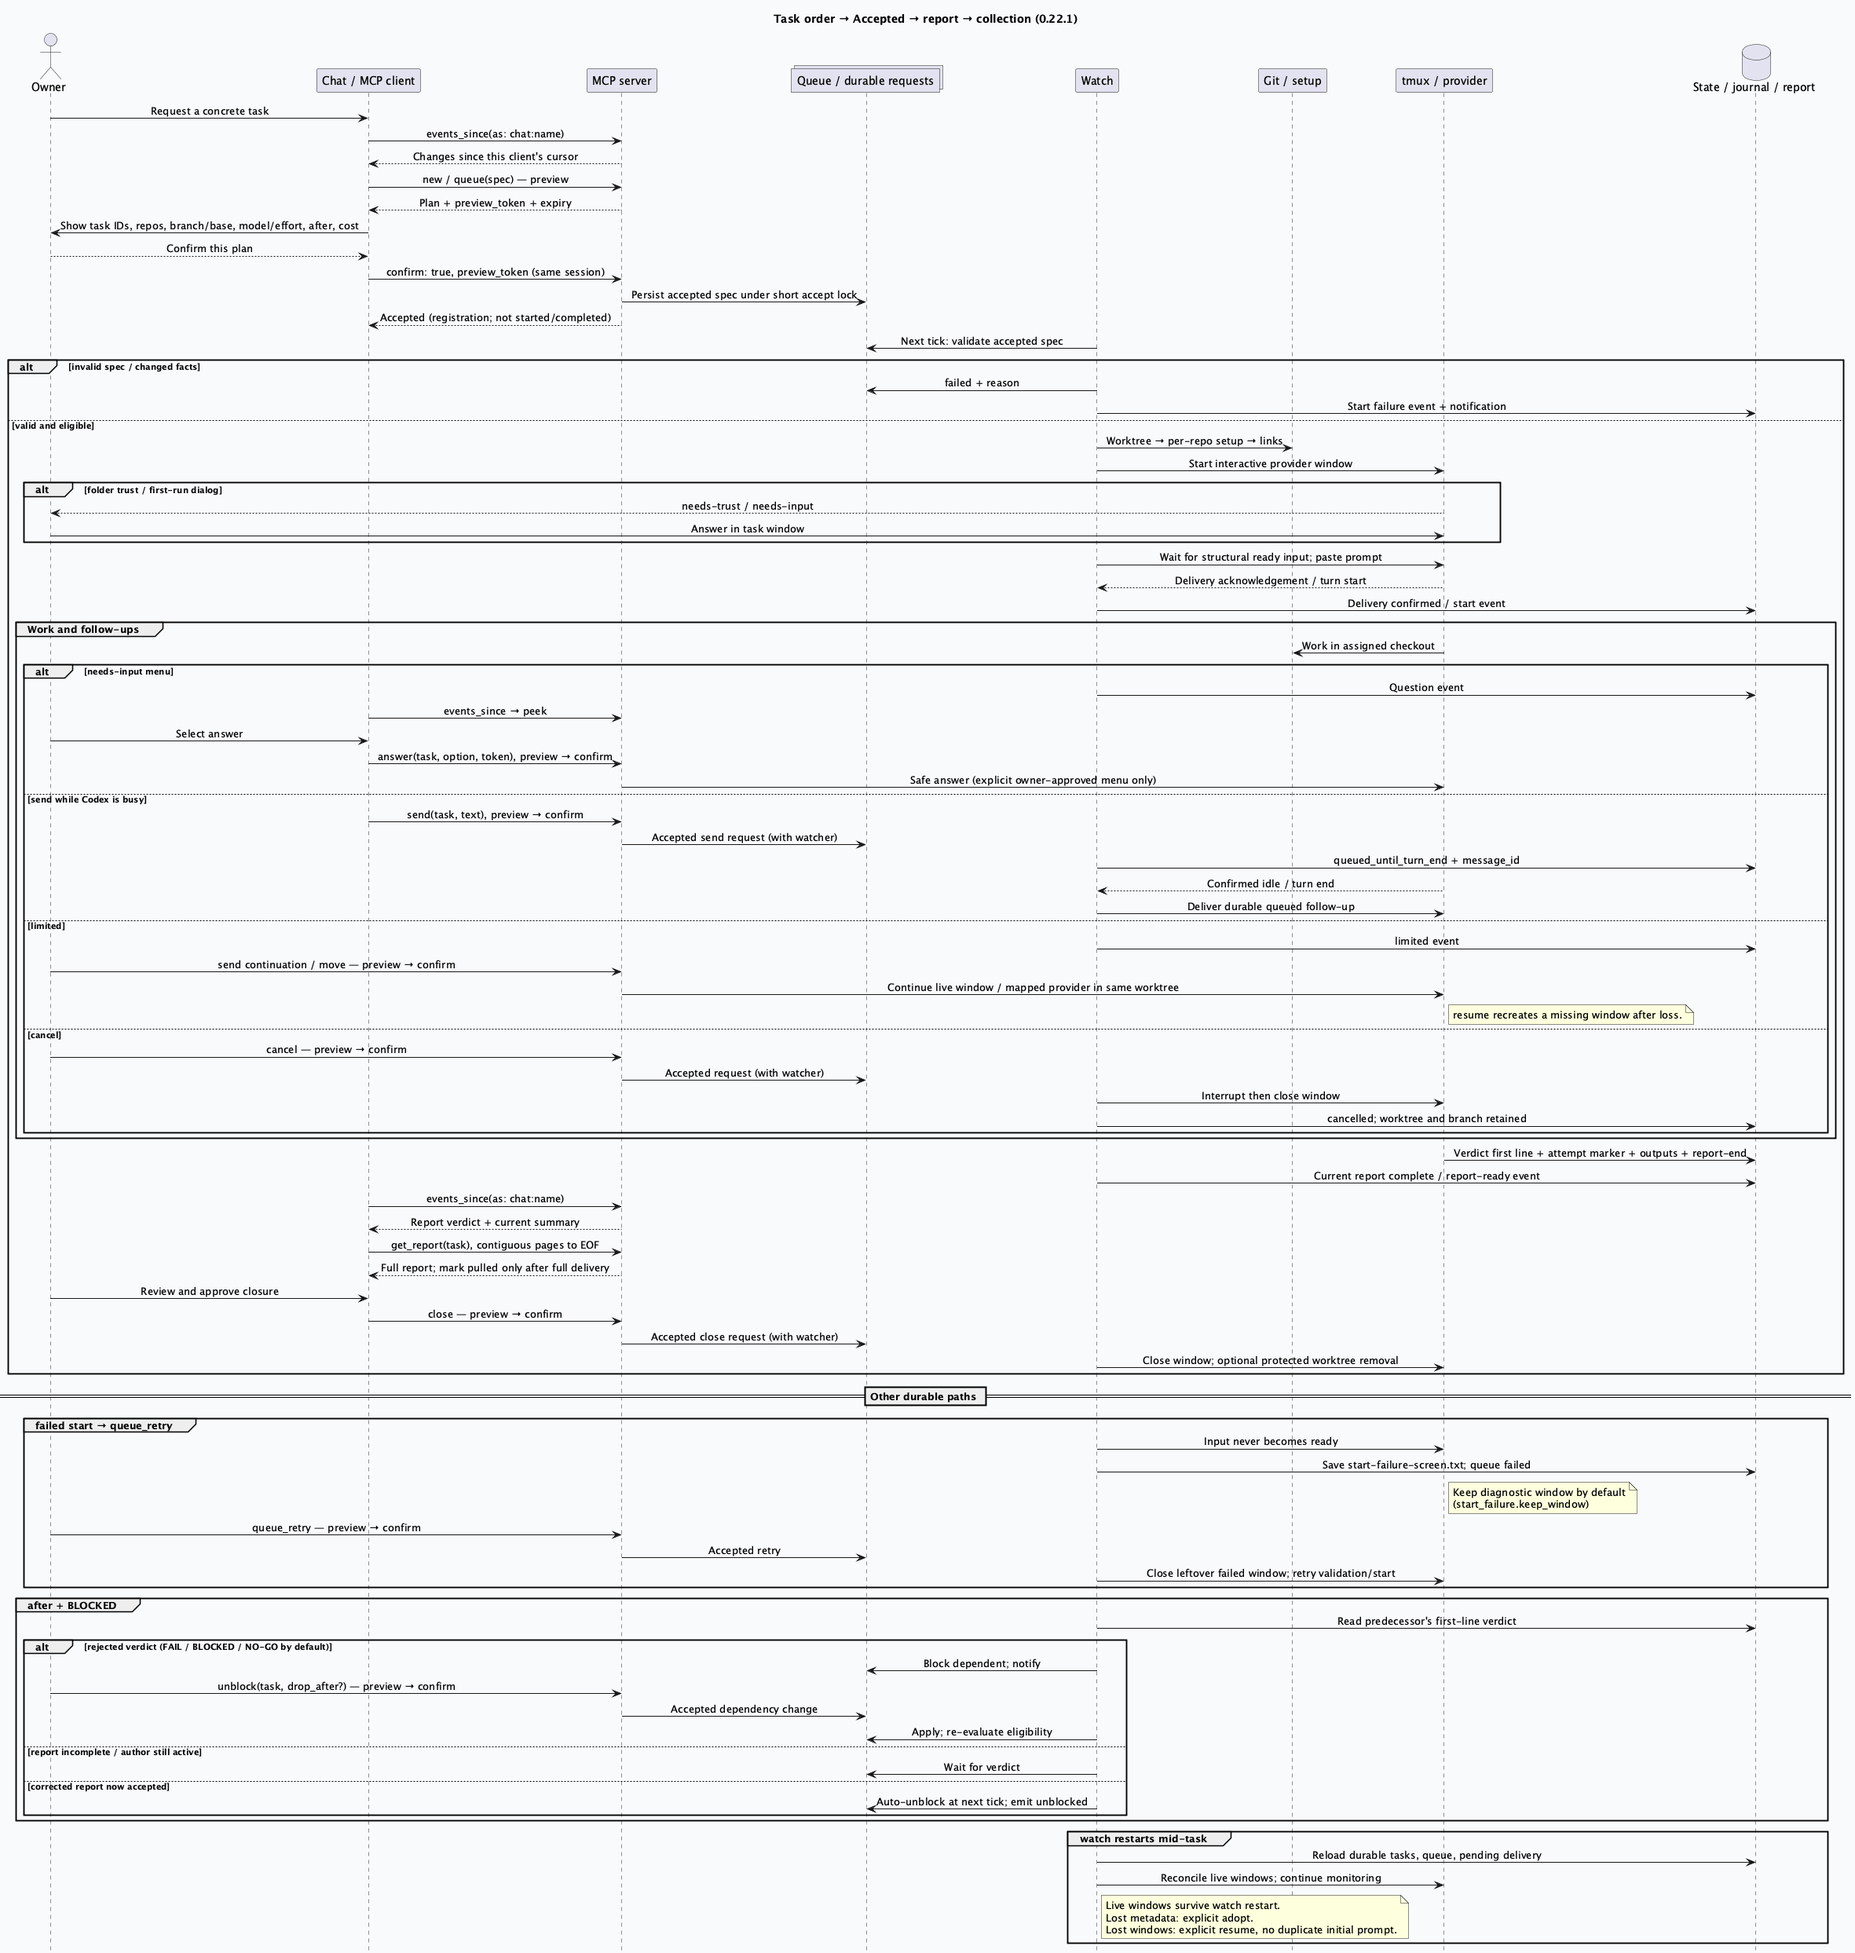
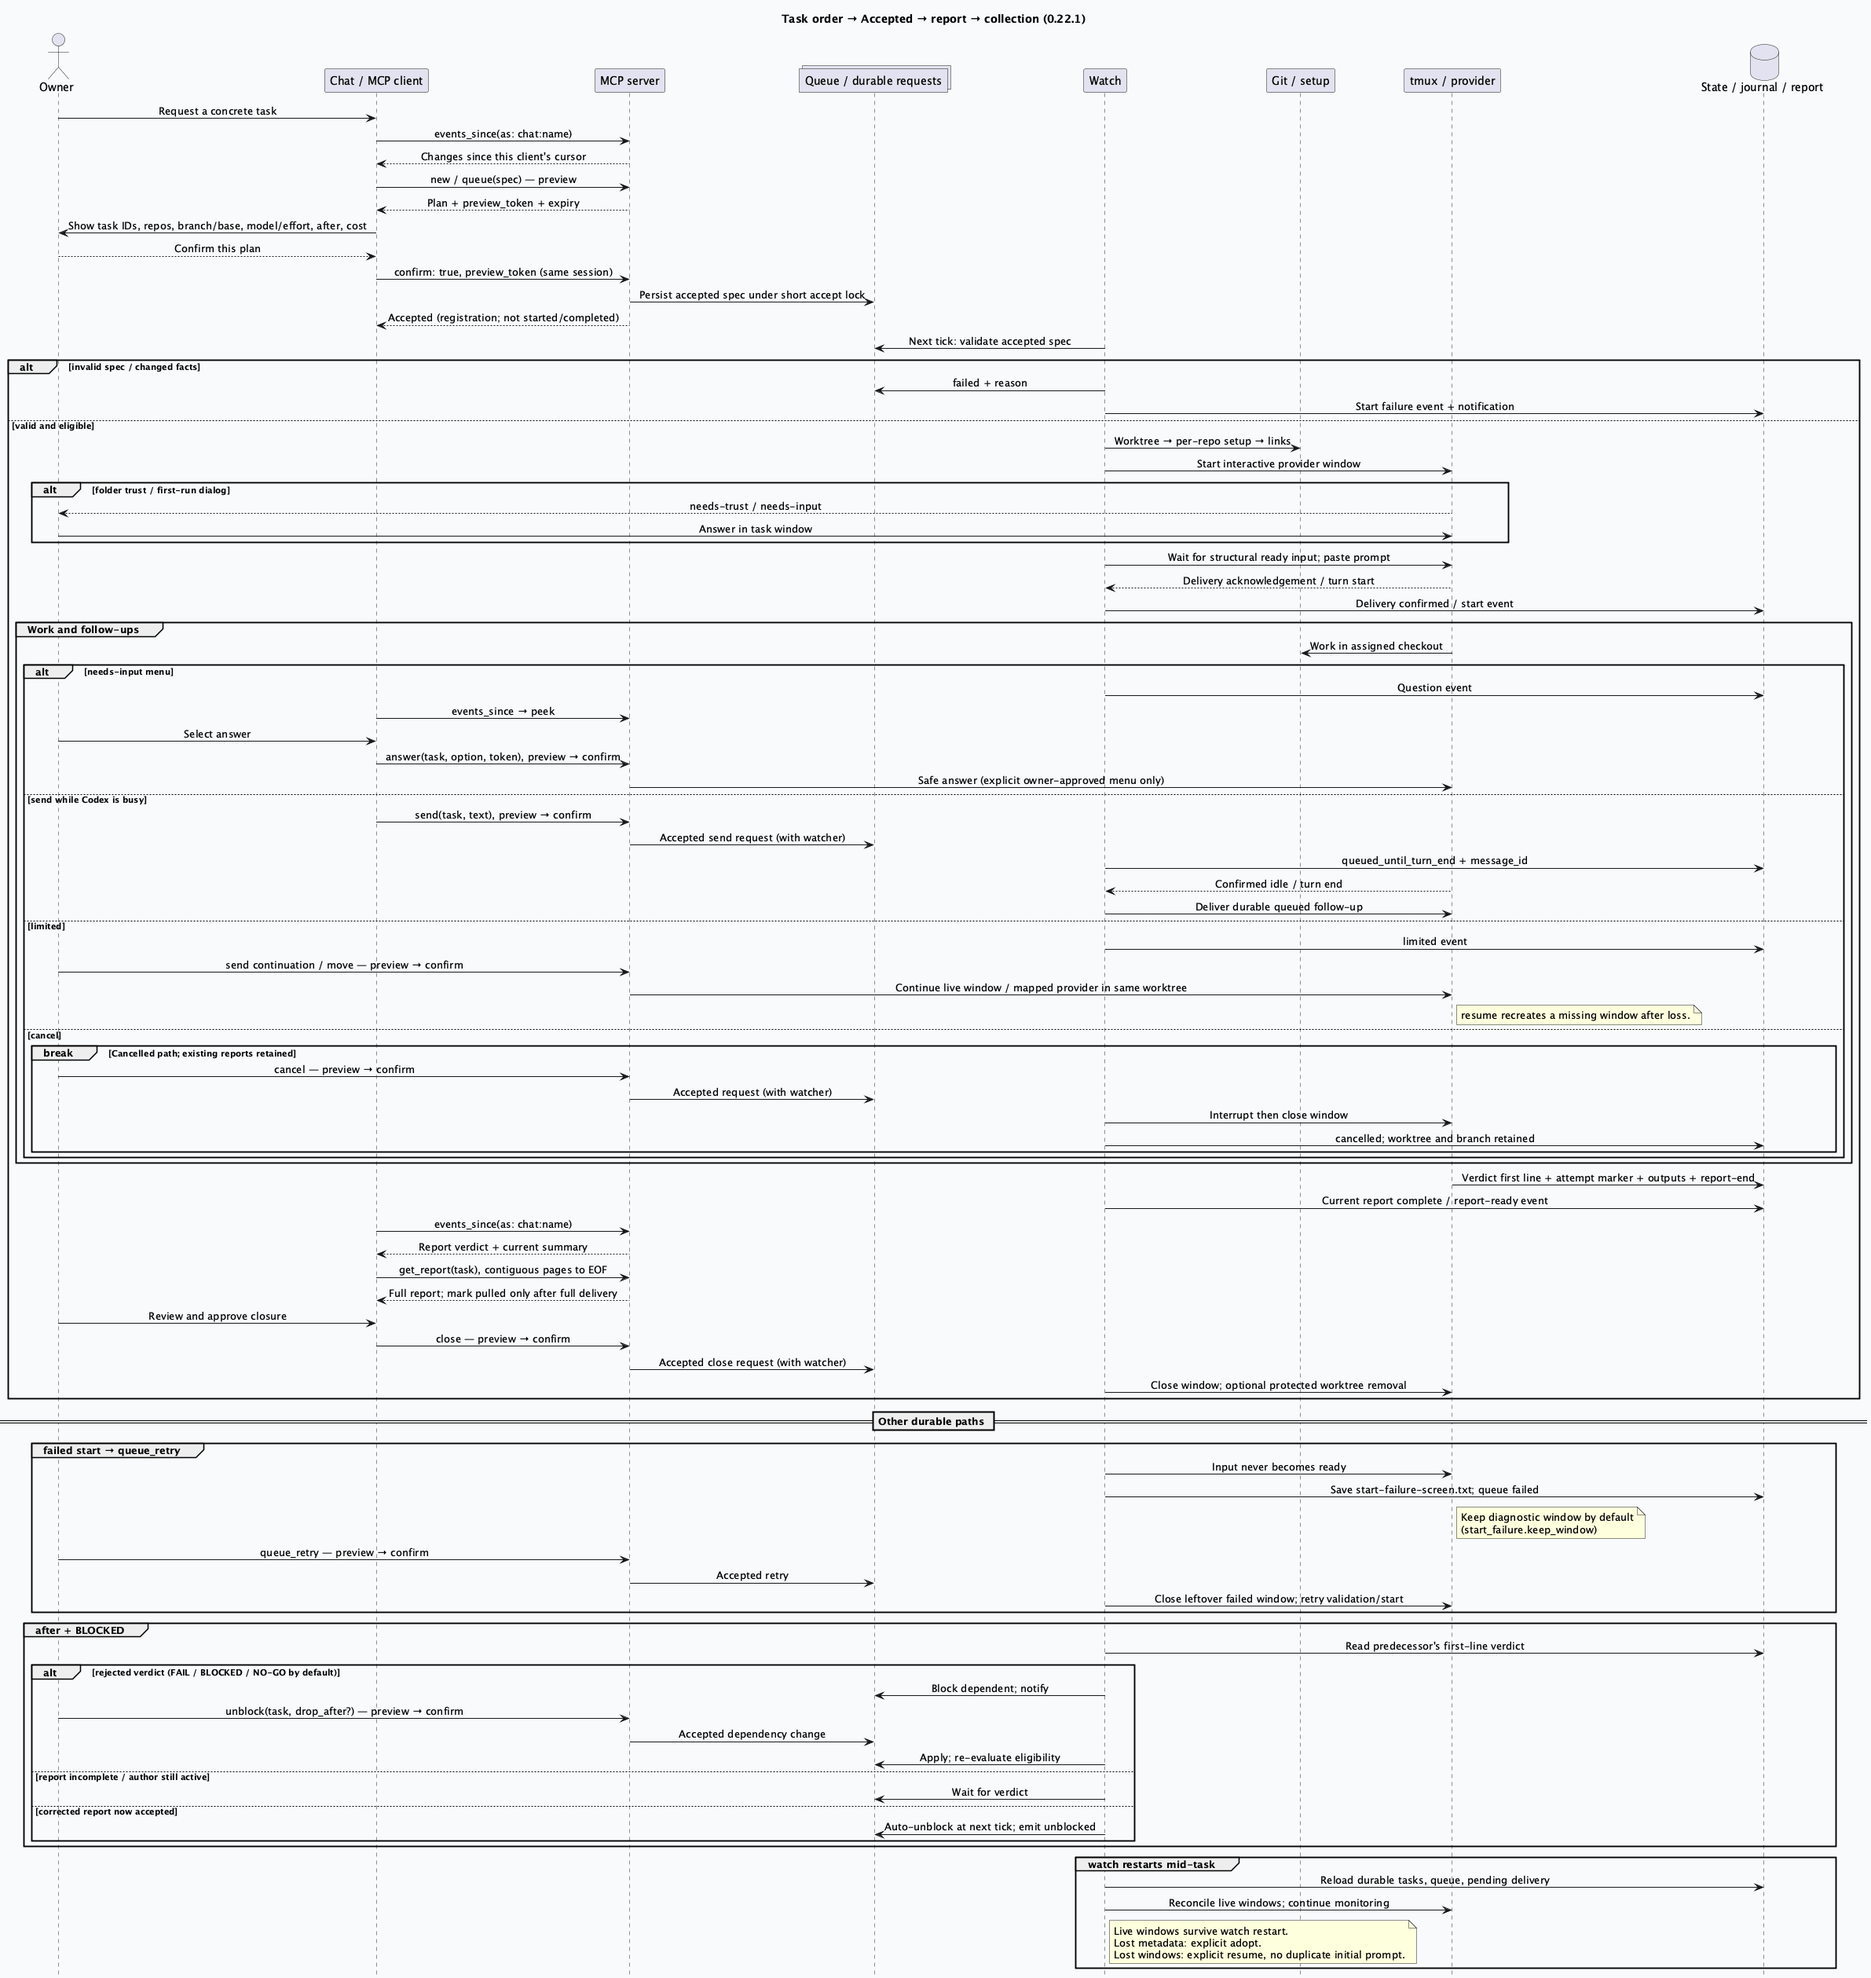
docs: repair GLM anchor and finalize first-task and cancel flows

diff --git a/docs/en/configuration.md b/docs/en/configuration.md
@@ -23,7 +23,7 @@ Types/defaults below are cross-checked with [config.ts](../../src/core/config.ts
 | `defaults.effort` | `low` `medium` `high` `xhigh` `max` · `high` · g p | Effort when the spec has none. |
 | `defaults.remote_control` | boolean · `false` · g p | `true`: Claude tasks start with Remote Control (see the spec key `remote_control`) unless the spec says `remote_control: false`. A Codex task is not affected. |
 | `providers` | global · `[claude, codex]` | Active providers in order; both claude and codex are required, without duplicates. |
-| `providers_config` | mapping · `{}` · g | Per-provider launch overrides: `providers_config.glm.command` and `providers_config.glm.env` (see [GLM](#glm-zai-glm-coding-plan)). |
+| `providers_config` | mapping · `{}` · g | Per-provider launch overrides: `providers_config.glm.command` and `providers_config.glm.env` (see [GLM](providers.md#glm-coding-plan-zai)). |
 | `providers_config.glm.command` | string · `claude-glm` · g | The executable that starts GLM tasks (one name or path, no arguments). |
 | `providers_config.glm.env` | mapping · `{CLAUDE_CODE_AUTO_MODE_SERVER: "0"}` · g | Environment of every GLM task, added to the built-in default; a key you set wins over the default. The Z.ai endpoint and token (`ANTHROPIC_BASE_URL`, `ANTHROPIC_AUTH_TOKEN`, `ANTHROPIC_API_KEY`) are refused: they come only from the wrapper. |
 | `start_failure` | mapping · `{keep_window: true}` · g | What a start that did not reach the agent's input leaves behind. |

diff --git a/CHANGELOG.md b/CHANGELOG.md
@@ -6,6 +6,8 @@ All notable changes to this project are documented here. The format follows [Kee
 
 ## [0.22.1] - 2026-11-15
 
+- Final documentation QA: repair the GLM cross-page anchor, configure local demo Git identity and terminate the cancelled sequence path explicitly. / Końcowe QA: poprawny odnośnik GLM, lokalna tożsamość Git demo i jawny koniec ścieżki anulowania.
+
 - Documentation validation: type the recursive file inventory explicitly; freeze demo host readings and show a populated WALL filter. No runtime behavior change. / Walidacja dokumentacji: jawny typ inwentarza, stałe odczyty hosta demo i filtr WALL z wynikiem. Bez zmiany runtime.
 
 - Documentation-only release: matching EN/PL manuals, concise front pages, from-zero installation/tutorial, all 67 MCP tools/four permission groups and 204 configuration keys, provider and token-economics guidance, Project inserts and ordering guide. / Wydanie dokumentacji: zgodne instrukcje EN/PL, zwięzłe strony główne, instalacja/samouczek od zera, 67 narzędzi MCP/cztery grupy i 204 klucze konfiguracji, dostawcy/ekonomia, wstawki Projektu i przewodnik zlecającego.

diff --git a/docs/pl/tutorial.md b/docs/pl/tutorial.md
@@ -61,6 +61,8 @@ Użyj nowego katalogu:
 mkdir -p ~/Projects/demo
 cd ~/Projects/demo
 git init -b main
+git config user.name "Demo User"
+git config user.email demo@example.invalid
 printf '# Demo\n' > README.md
 git add README.md
 git commit -m "Initialize demo"

diff --git a/docs/en/tutorial.md b/docs/en/tutorial.md
@@ -61,6 +61,8 @@ Use a new directory:
 mkdir -p ~/Projects/demo
 cd ~/Projects/demo
 git init -b main
+git config user.name "Demo User"
+git config user.email demo@example.invalid
 printf '# Demo\n' > README.md
 git add README.md
 git commit -m "Initialize demo"
